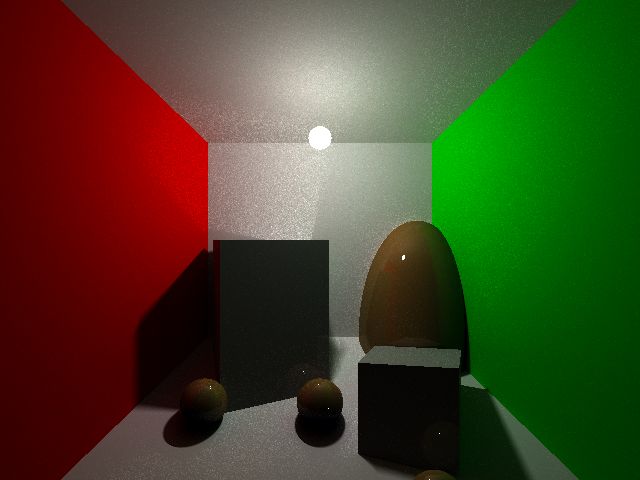
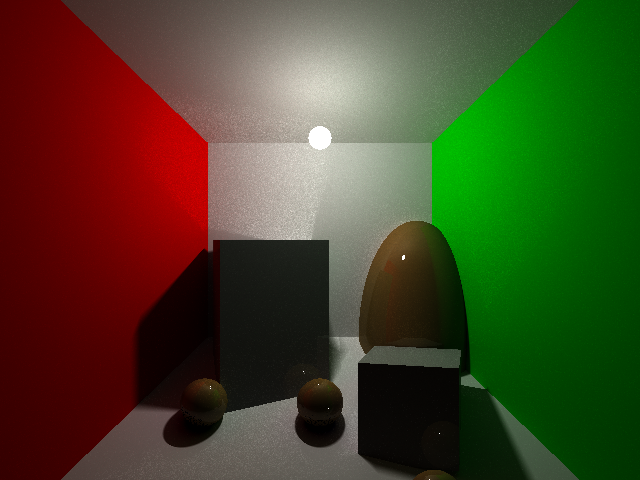
Add documentation

Changed region(s): [[0.375, 0.3438, 0.5, 0.5], [0.3438, 0.25, 0.4688, 0.3125]]

diff --git a/index.md b/index.md
@@ -1,8 +1,20 @@
 # CSE 167 Final Project - Path Tracing Extra Credit
 
+Features implemented:
+- Path tracing
+- A new command, `method {ray|path [samples per pixel]}`, to control which rendering method is used to draw the scene.
+- Spherical lights for soft shadows
+- 8x speedup for path tracing, using parallelization via openMP.
+
+Materials can be both diffuse and specular:
+
 ![scene4 path](images/scene4-path.png)
 
-![cornell box](images/cornell.png)
+Soft shadows occur naturally due to the use of spherical lights. Specular materials create highlights on nearby surfaces.
 
 ![scene6 path](images/scene6-path.png)
+
+Other images:
+
+![cornell box](images/cornell.png)
 
